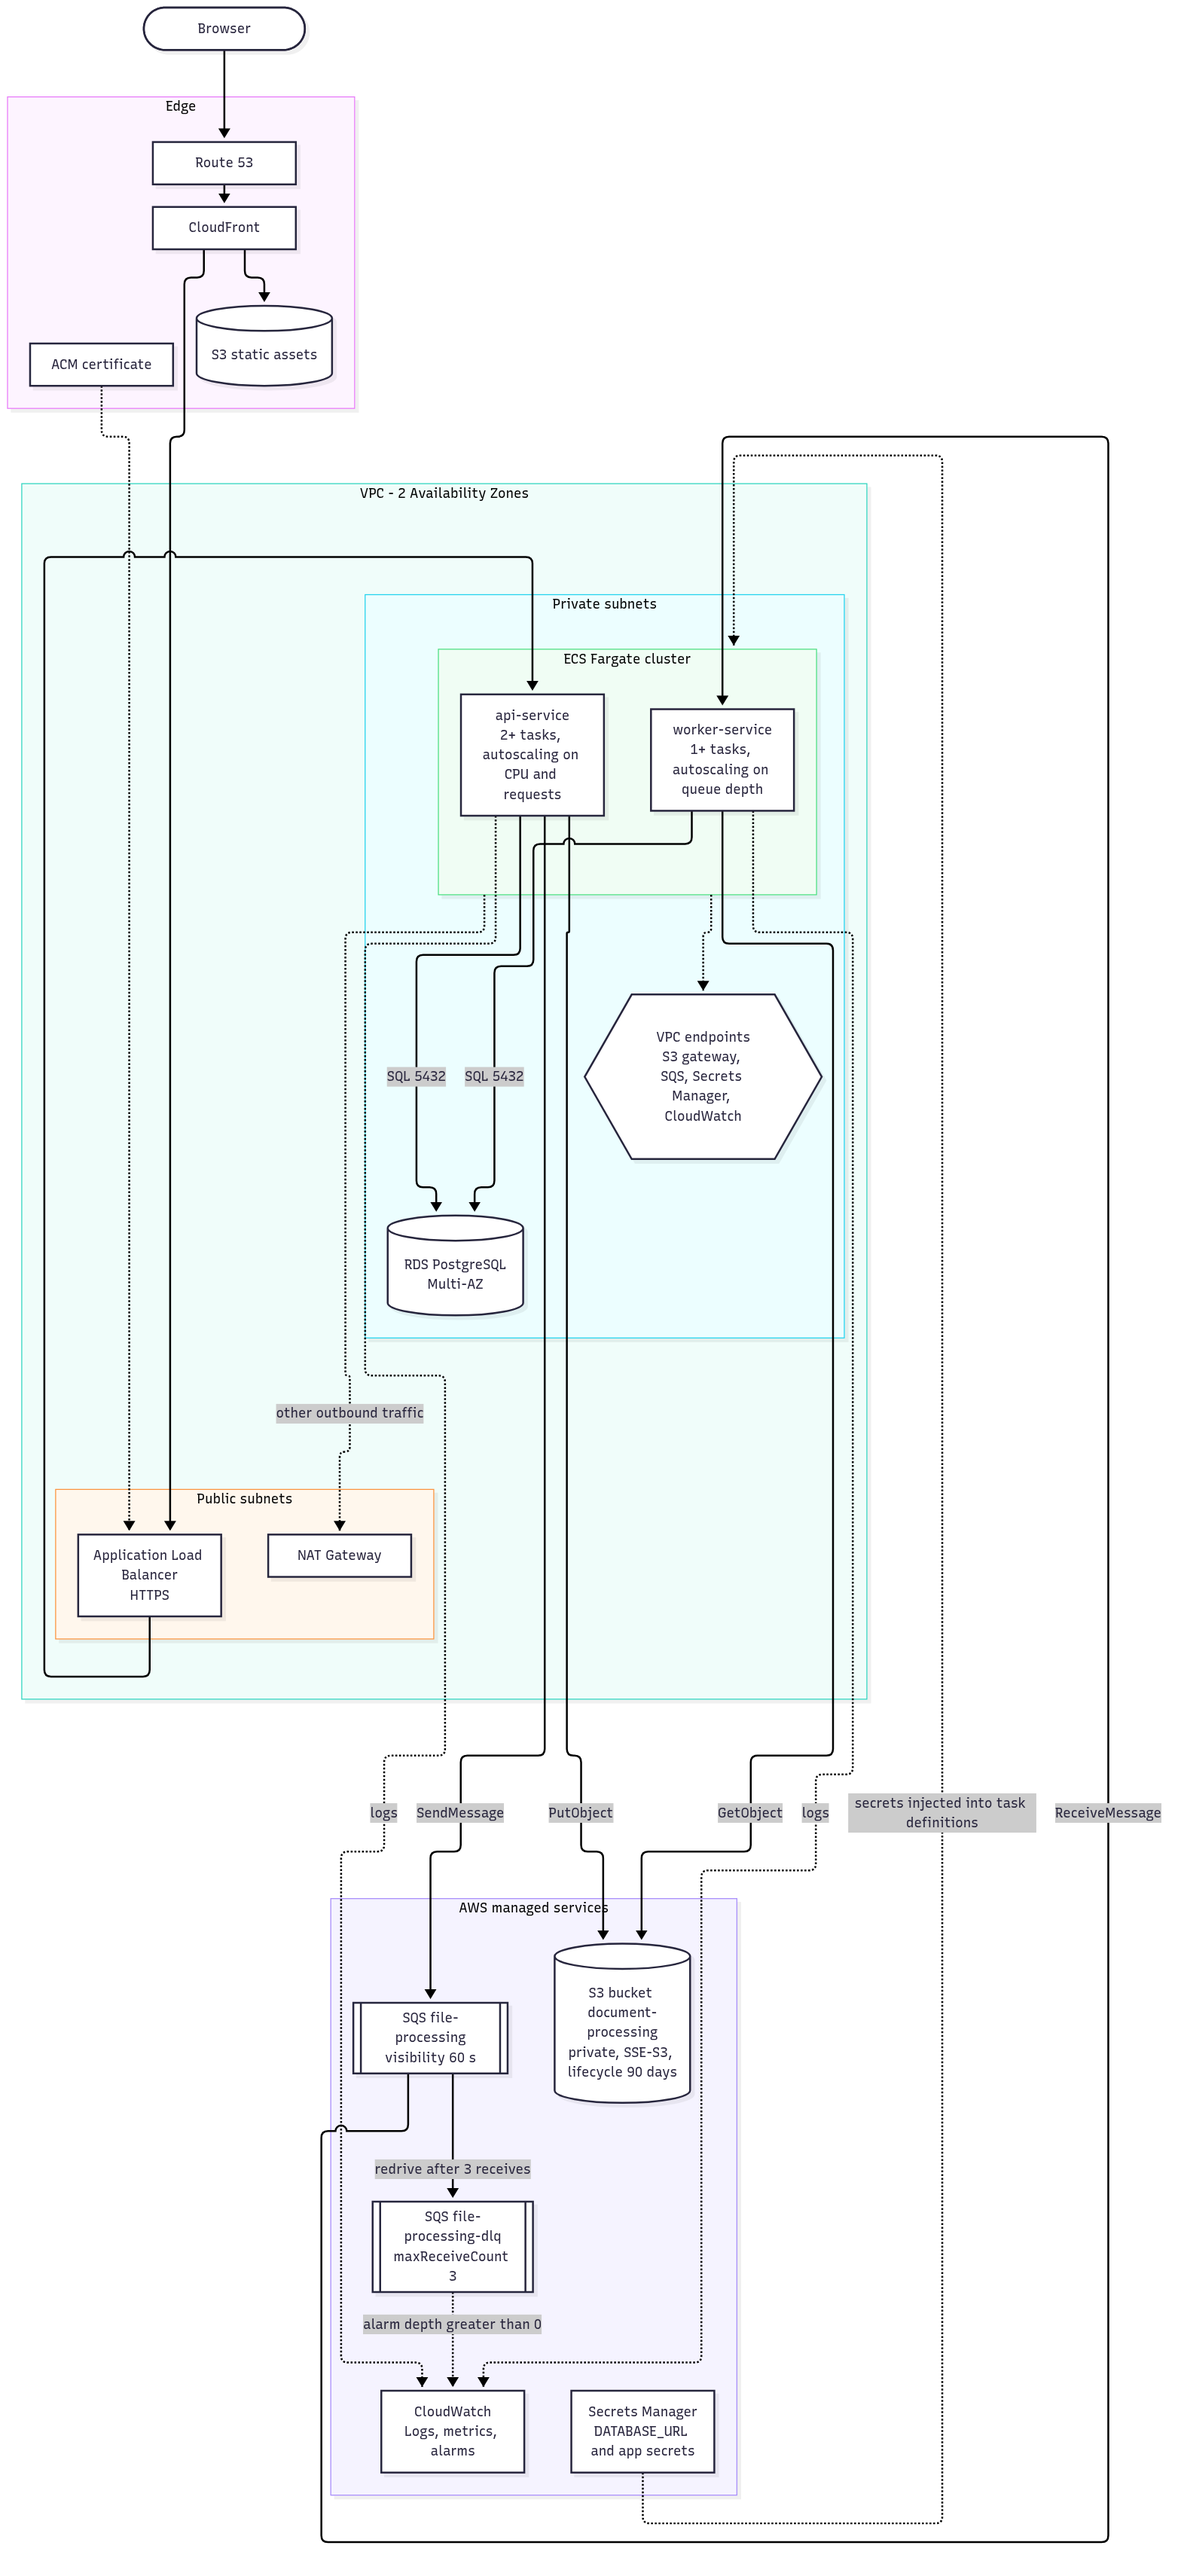
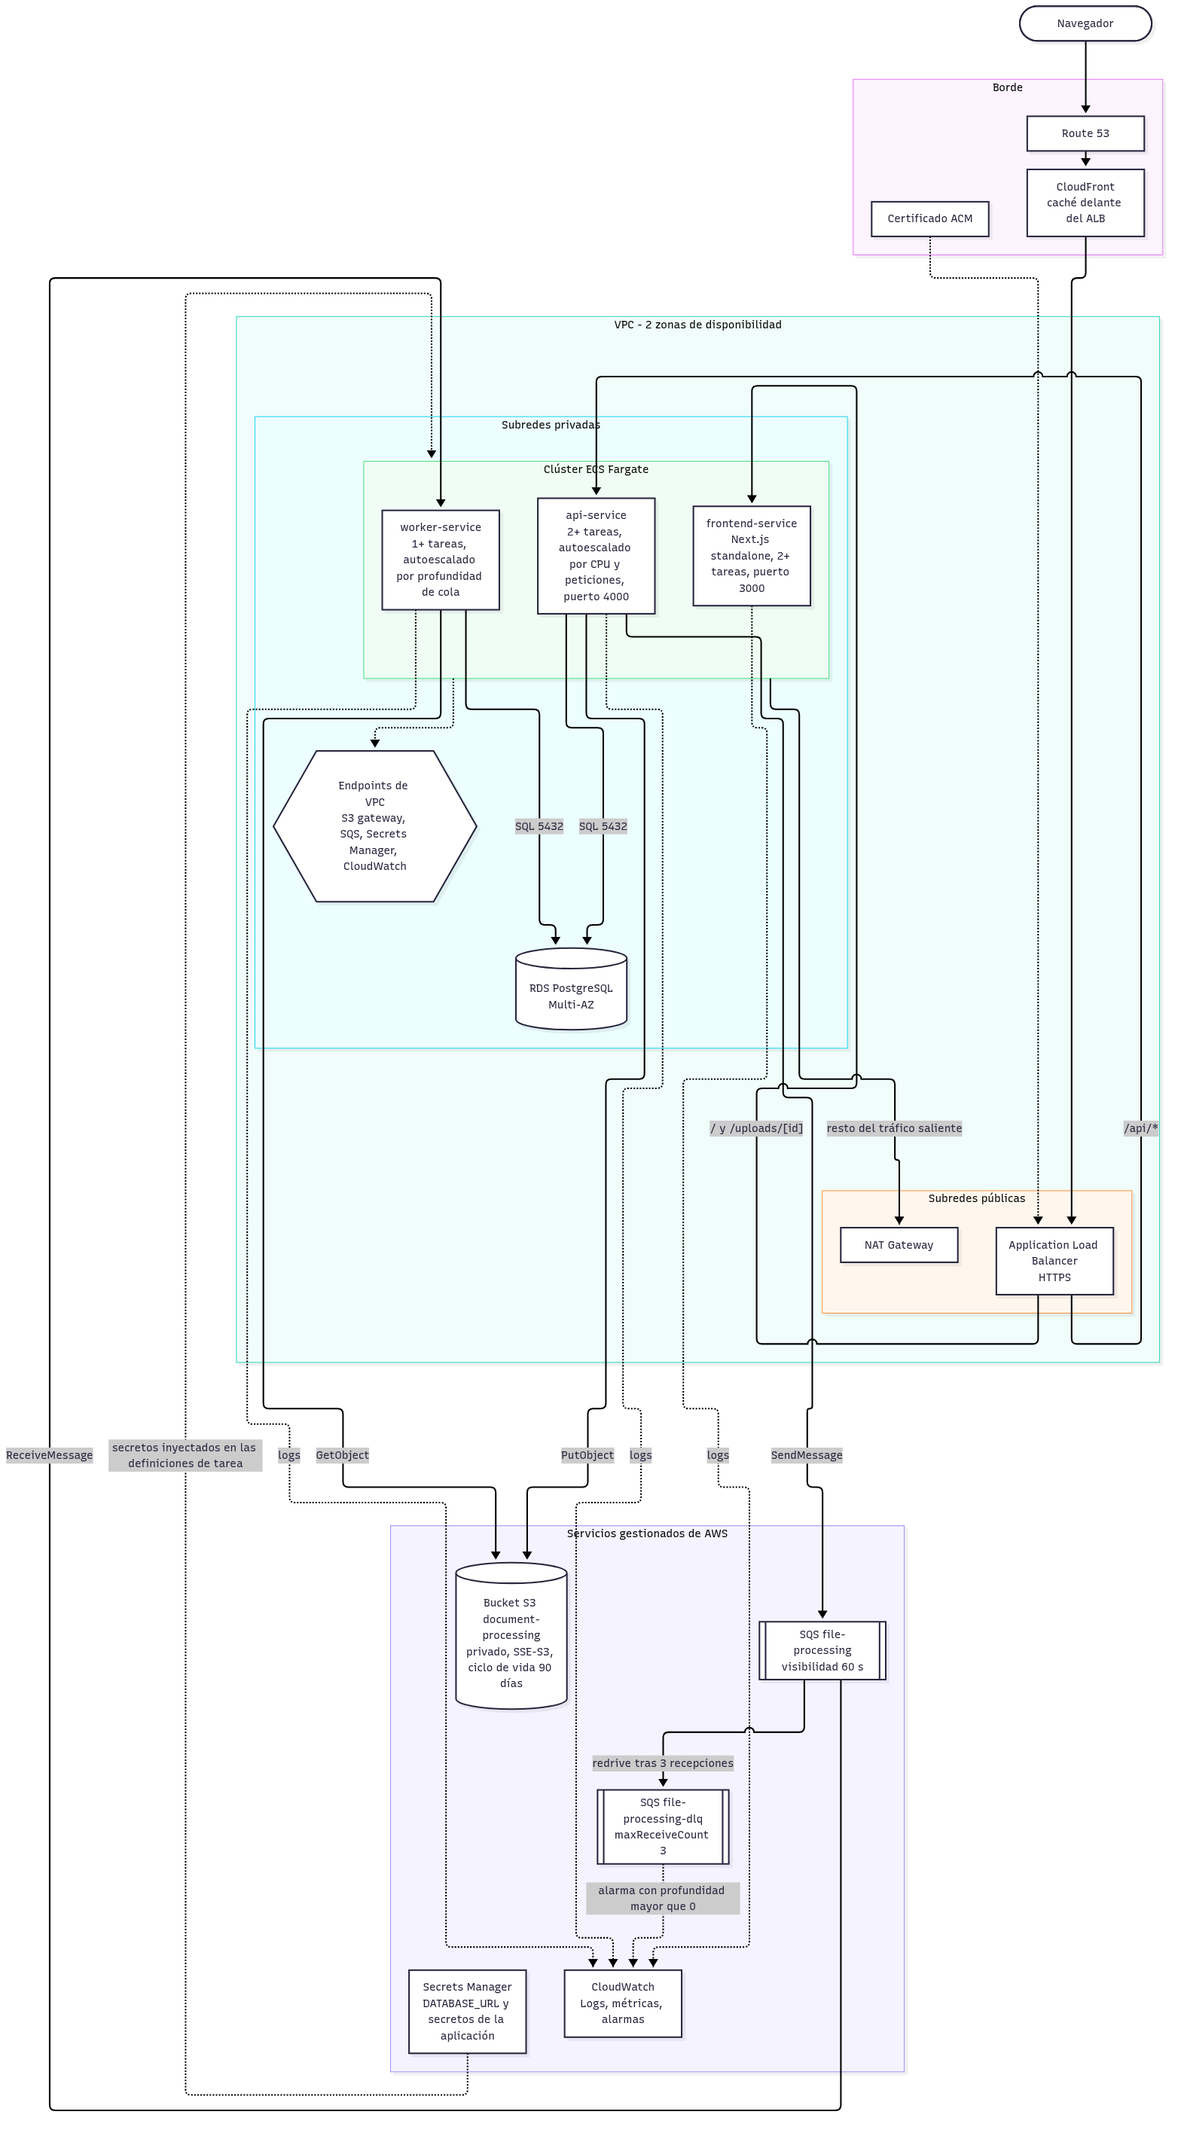
docs(architecture): add security groups, fix IAM and frontend hosting

diff --git a/docs/arquitectura-aws.md b/docs/arquitectura-aws.md
@@ -1,120 +1,128 @@
-# AWS target architecture
+# Arquitectura objetivo en AWS
 
-Production-oriented deployment of the same system that runs locally on Docker Compose
-(PostgreSQL + LocalStack). Nothing here is deployed by this repository; it documents how
-the components map to AWS services.
+Despliegue orientado a producción del mismo sistema que se ejecuta en local con Docker
+Compose (PostgreSQL + LocalStack). Este repositorio no despliega nada de esto; documenta cómo
+se corresponden los componentes con los servicios de AWS.
 
 ```mermaid
 graph TB
-    user([Browser])
+    user([Navegador])
 
-    subgraph edge["Edge"]
+    subgraph edge["Borde"]
         r53[Route 53]
-        cf[CloudFront]
-        s3web[(S3 static assets)]
-        acm[ACM certificate]
+        cf["CloudFront<br/>caché delante del ALB"]
+        acm[Certificado ACM]
     end
 
-    subgraph vpc["VPC - 2 Availability Zones"]
-        subgraph pub["Public subnets"]
+    subgraph vpc["VPC - 2 zonas de disponibilidad"]
+        subgraph pub["Subredes públicas"]
             alb[Application Load Balancer<br/>HTTPS]
             nat[NAT Gateway]
         end
-        subgraph priv["Private subnets"]
-            subgraph ecs["ECS Fargate cluster"]
-                api["api-service<br/>2+ tasks, autoscaling on CPU and requests"]
-                worker["worker-service<br/>1+ tasks, autoscaling on queue depth"]
+        subgraph priv["Subredes privadas"]
+            subgraph ecs["Clúster ECS Fargate"]
+                fe["frontend-service<br/>Next.js standalone, 2+ tareas, puerto 3000"]
+                api["api-service<br/>2+ tareas, autoescalado por CPU y peticiones, puerto 4000"]
+                worker["worker-service<br/>1+ tareas, autoescalado por profundidad de cola"]
             end
             rds[("RDS PostgreSQL<br/>Multi-AZ")]
-            vpce{{"VPC endpoints<br/>S3 gateway, SQS, Secrets Manager, CloudWatch"}}
+            vpce{{"Endpoints de VPC<br/>S3 gateway, SQS, Secrets Manager, CloudWatch"}}
         end
     end
 
-    subgraph data["AWS managed services"]
-        s3[("S3 bucket document-processing<br/>private, SSE-S3, lifecycle 90 days")]
-        sqs[["SQS file-processing<br/>visibility 60 s"]]
+    subgraph data["Servicios gestionados de AWS"]
+        s3[("Bucket S3 document-processing<br/>privado, SSE-S3, ciclo de vida 90 días")]
+        sqs[["SQS file-processing<br/>visibilidad 60 s"]]
         dlq[["SQS file-processing-dlq<br/>maxReceiveCount 3"]]
-        sm[Secrets Manager<br/>DATABASE_URL and app secrets]
-        cw[CloudWatch<br/>Logs, metrics, alarms]
+        sm[Secrets Manager<br/>DATABASE_URL y secretos de la aplicación]
+        cw[CloudWatch<br/>Logs, métricas, alarmas]
     end
 
     user --> r53 --> cf
-    cf --> s3web
     cf --> alb
     acm -.-> alb
-    alb --> api
+    alb -->|"/ y /uploads/[id]"| fe
+    alb -->|"/api/*"| api
     api -->|SQL 5432| rds
     api -->|PutObject| s3
     api -->|SendMessage| sqs
     sqs -->|ReceiveMessage| worker
-    sqs -->|redrive after 3 receives| dlq
+    sqs -->|redrive tras 3 recepciones| dlq
     worker -->|GetObject| s3
     worker -->|SQL 5432| rds
-    sm -.->|secrets injected into task definitions| ecs
+    sm -.->|secretos inyectados en las definiciones de tarea| ecs
+    fe -.->|logs| cw
     api -.->|logs| cw
     worker -.->|logs| cw
-    dlq -.->|alarm depth greater than 0| cw
+    dlq -.->|alarma con profundidad mayor que 0| cw
     ecs -.-> vpce
-    ecs -.->|other outbound traffic| nat
+    ecs -.->|resto del tráfico saliente| nat
 ```
 
-The diagram source is `docs/arquitectura-aws.mmd`; `docs/arquitectura-aws.png` is rendered
-from it with `minlag/mermaid-cli` (see the command at the end of this file).
+El origen del diagrama es `docs/arquitectura-aws.mmd`; `docs/arquitectura-aws.png` se genera
+a partir de él con `minlag/mermaid-cli` (ver el comando al final de este archivo).
 
-## Components
+## Componentes
 
-| Component | Purpose | Why |
-|-----------|---------|-----|
-| Route 53 | DNS for the public domain | Optional; keeps the entry point independent from the load balancer |
-| CloudFront + S3 static | Serves the frontend assets (or an ECS task if SSR is needed) | Cache close to users; no servers to run for static assets |
-| ACM | TLS certificate for CloudFront and the ALB | Free managed certificates with automatic renewal |
-| ALB (public subnets) | HTTPS entry point, forwards `/api/*` to the API target group | Health checks and zero-downtime deployments |
-| NAT Gateway (public subnets) | Outbound internet for private tasks | Only for traffic that cannot use VPC endpoints |
-| ECS Fargate `api-service` | Fastify API, 2+ tasks across two AZs, autoscaling on CPU and requests | Stateless, horizontally scalable, no host management |
-| ECS Fargate `worker-service` | CSV worker, 1+ tasks, autoscaling on SQS `ApproximateNumberOfMessagesVisible` | Scales with the backlog, independent from API traffic |
-| RDS PostgreSQL Multi-AZ | `Upload` and `ActivityData` | Automatic failover; private subnets; the security group accepts only the ECS security group on 5432 |
-| S3 bucket `document-processing` | Uploaded CSV files | Private, block public access, SSE-S3, lifecycle expires `uploads/` after 90 days and aborts incomplete multipart uploads |
-| SQS `file-processing` | Upload messages, visibility timeout 60 s | Decouples the API from the processing time |
-| SQS `file-processing-dlq` | Dead-letter queue, `maxReceiveCount` 3 | Keeps messages that failed three times for inspection or redrive |
-| CloudWatch | Logs of API and worker, metrics, alarms (5xx, DLQ depth greater than 0, oldest message age) | Operational visibility and alerting |
-| Secrets Manager | `DATABASE_URL` and application secrets injected into the task definitions | No secrets in images or environment files |
-| IAM task roles | S3 `GetObject`/`PutObject` on the bucket; SQS `SendMessage`/`ReceiveMessage`/`DeleteMessage` on the queue | Least privilege per service |
-| VPC endpoints | Gateway endpoint for S3; interface endpoints for SQS, Secrets Manager and CloudWatch | Private tasks reach AWS services without crossing the NAT |
+| Componente | Propósito | Motivo |
+|------------|-----------|--------|
+| Route 53 | DNS del dominio público | Opcional; mantiene el punto de entrada independiente del balanceador |
+| CloudFront | Caché delante del ALB para las respuestas del frontend y los recursos estáticos de `/_next/static` | Caché cercana al usuario; el origen sigue siendo el ALB |
+| ACM | Certificado TLS para CloudFront y el ALB | Certificados gestionados gratuitos con renovación automática |
+| ALB (subredes públicas) | Punto de entrada HTTPS; reenvía `/api/*` al grupo de destino de la API y el resto al del frontend | Health checks y despliegues sin interrupción |
+| NAT Gateway (subredes públicas) | Salida a Internet de las tareas privadas | Solo para el tráfico que no puede usar endpoints de VPC |
+| ECS Fargate `frontend-service` | Servidor Next.js (`output: 'standalone'`, puerto 3000) con la ruta dinámica `/uploads/[id]`, 2+ tareas en dos zonas | El build no es un sitio estático, así que necesita un servidor; sin estado y escalable horizontalmente |
+| ECS Fargate `api-service` | API Fastify (puerto 4000), 2+ tareas en dos zonas, autoescalado por CPU y peticiones | Sin estado, escalable horizontalmente, sin gestión de servidores |
+| ECS Fargate `worker-service` | Worker de CSV, 1+ tareas, autoescalado por `ApproximateNumberOfMessagesVisible` de SQS | Escala con la cola, independiente del tráfico de la API |
+| RDS PostgreSQL Multi-AZ | `Upload` y `ActivityData` | Conmutación automática; subredes privadas; el security group solo acepta el de API y worker en el puerto 5432 |
+| Bucket S3 `document-processing` | Archivos CSV subidos | Privado, acceso público bloqueado, SSE-S3, el ciclo de vida expira `uploads/` a los 90 días y aborta las cargas multiparte incompletas |
+| SQS `file-processing` | Mensajes de subida, visibility timeout de 60 s | Desacopla la API del tiempo de procesamiento |
+| SQS `file-processing-dlq` | Cola de mensajes fallidos, `maxReceiveCount` 3 | Conserva los mensajes que fallaron tres veces para inspeccionarlos o reencolarlos |
+| CloudWatch | Logs del frontend, la API y el worker, métricas, alarmas (5xx, profundidad de la DLQ mayor que 0, antigüedad del mensaje más viejo) | Visibilidad operativa y alertas |
+| Secrets Manager | `DATABASE_URL` y secretos de la aplicación inyectados en las definiciones de tarea | Sin secretos en imágenes ni en archivos de entorno |
+| Roles de tarea IAM | API: S3 `PutObject` sobre el bucket y SQS `SendMessage` sobre la cola. Worker: S3 `GetObject` sobre el bucket y SQS `ReceiveMessage`, `DeleteMessage` y `ChangeMessageVisibility` sobre la cola | Mínimo privilegio por servicio; los reintentos dependen de `ChangeMessageVisibility` |
+| Endpoints de VPC | Endpoint gateway para S3; endpoints de interfaz para SQS, Secrets Manager y CloudWatch | Las tareas privadas llegan a los servicios de AWS sin pasar por el NAT |
+| Security groups | ALB: 443 desde Internet; frontend: 3000 solo desde el ALB; API: 4000 solo desde el ALB; worker: sin entrada; RDS: 5432 solo desde API y worker; endpoints de interfaz: 443 desde API y worker | Mínimo privilegio en red |
 
-## Request path
+## Ruta de una petición
 
-Browser → CloudFront → ALB (HTTPS) → `api-service` task → S3 (store file) → RDS (insert
-`PENDING` upload) → SQS (publish message) → `201` response. The browser then polls
-`GET /api/v1/uploads/:id` every 3 s while the status is `PENDING` or `PROCESSING`.
+Navegador → CloudFront → ALB (HTTPS) → tarea de `frontend-service` (páginas, incluida
+`/uploads/[id]`). Para subir un archivo, el navegador llama a `/api/*`: ALB → tarea de
+`api-service` → S3 (guarda el archivo) → RDS (inserta la subida `PENDING`) → SQS (publica el
+mensaje) → respuesta `201`. Después el navegador consulta `GET /api/v1/uploads/:id` cada 3 s
+mientras el estado sea `PENDING` o `PROCESSING`.
 
-## Processing path
+## Ruta de procesamiento
 
-SQS → `worker-service` task (long polling) → S3 (download) → RDS (status `PROCESSING`,
-batch insert of valid rows, progress, final status) → SQS (delete message).
+SQS → tarea de `worker-service` (long polling) → S3 (descarga) → RDS (estado `PROCESSING`,
+inserción por lotes de las filas válidas, progreso, estado final) → SQS (borra el mensaje).
 
-## Scaling and failure notes
+## Escalado y fallos
 
-- API and worker are stateless and scale independently; the worker scales on queue depth.
-- RDS Multi-AZ fails over automatically; ECS replaces unhealthy tasks across AZs.
-- A message is received up to 3 times (visibility timeout 60 s, per-message backoff of
-  15 s then 30 s through `ChangeMessageVisibility`); after that SQS moves it to the DLQ and
-  the CloudWatch alarm on DLQ depth fires. Reprocessing is idempotent (previous rows of the
-  upload are deleted and `@@unique([uploadId, rowNumber])` guards duplicates).
-- With several workers, a file that takes longer than the visibility timeout plus the retry
-  delay could be processed twice; a visibility heartbeat is future work (see README).
+- API, frontend y worker no tienen estado y escalan de forma independiente; el worker escala
+  según la profundidad de la cola.
+- RDS Multi-AZ conmuta automáticamente; ECS reemplaza las tareas no saludables entre zonas.
+- Un mensaje se recibe hasta 3 veces (visibility timeout de 60 s, espera por mensaje de 15 s
+  y luego 30 s mediante `ChangeMessageVisibility`); después SQS lo mueve a la DLQ y se
+  dispara la alarma de CloudWatch sobre su profundidad. El reprocesamiento es idempotente
+  (las filas previas de la subida se borran y `@@unique([uploadId, rowNumber])` evita
+  duplicados).
+- Con varios workers, un archivo que tarde más que el visibility timeout (60 s) vuelve a ser
+  visible y otro worker puede recibirlo; un heartbeat de visibilidad queda como trabajo
+  futuro (ver README).
 
-## Cost note
+## Nota de costes
 
-Fargate Spot is an option for `worker-service`: interrupted tasks leave the message in the
-queue and it is redelivered. Interface VPC endpoints have an hourly cost that should be
-compared with the NAT Gateway traffic they replace.
+Fargate Spot es una opción para `worker-service`: las tareas interrumpidas dejan el mensaje
+en la cola y se vuelve a entregar. Los endpoints de interfaz de VPC tienen un coste por hora
+que conviene comparar con el tráfico de NAT Gateway que sustituyen.
 
-## Rendering the PNG
+## Generar el PNG
 
 ```bash
 docker run --rm -u "$(id -u):$(id -g)" -v "$PWD/docs:/data" minlag/mermaid-cli \
   -i /data/arquitectura-aws.mmd -o /data/arquitectura-aws.png -b white -s 2
 ```
 
-The `-w 1600` option from older `mermaid-cli` releases no longer exists in the current
-image; `-s 2` (scale factor) is used instead.
+La opción `-w 1600` de versiones antiguas de `mermaid-cli` ya no existe en la imagen actual;
+se usa `-s 2` (factor de escala).
